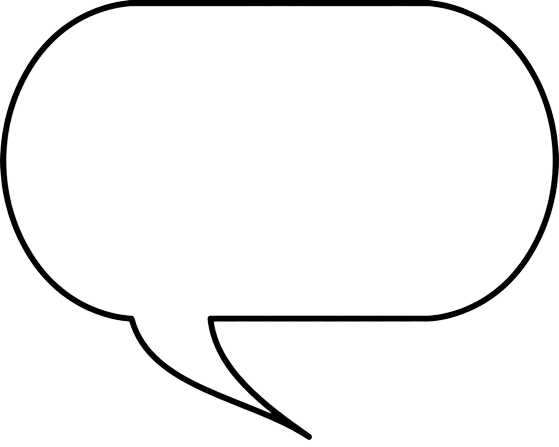
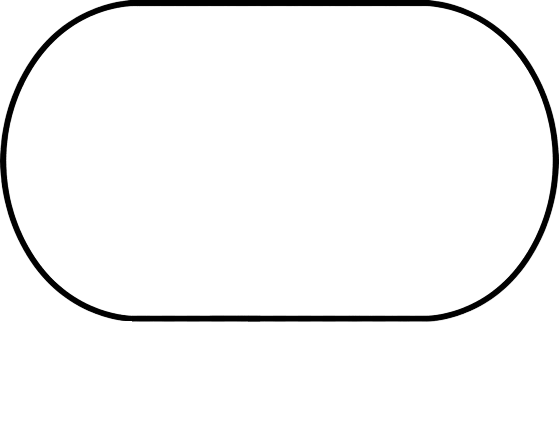
css pimping

Changed region(s): [[0.2129, 0.698, 0.5778, 0.9888], [0.3953, 0.7852, 0.4258, 0.8434]]

diff --git a/fonction.js b/fonction.js
@@ -109,6 +109,9 @@ function submitBulle(nom, dialogue){
             img = document.getElementById('img_couche_3_bulle_gauche');
             newP = document.getElementById("p_couche_3_gauche");
             img.style.backgroundImage = "url('images/bulles/bulleViergeGauche.png')";
+            img.style.backgroundRepeat = "no-repeat";
+            img.style.backgroundPosition = "left top";
+            img.style.height = "20vh";
             newP.innerText = dialogues;
             closeBulle("popup_agresseur");
         break;
@@ -116,6 +119,9 @@ function submitBulle(nom, dialogue){
             img = document.getElementById('img_couche_3_bulle_droite');
             newP = document.getElementById("p_couche_3_droite");
             img.style.backgroundImage = "url('images/bulles/bulleViergeDroite.png')";
+            img.style.backgroundRepeat = "no-repeat";
+            img.style.backgroundPosition = "right top";
+            img.style.height = "20vh";
             newP.innerText = dialogues;
             closeBulle("popup_victime");
         break;
@@ -148,21 +154,57 @@ function selectOutil(nom) {
     let middleTool = document.getElementById("outil_milieu");
     let rightTool = document.getElementById("outil_droit");
 
-    leftTool.style.opacity = ".5";
+    switch (nom) {
+        case "outil_gauche":
+            if (leftTool.style.opacity == "1") {
+                leftTool.style.opacity = ".5";
+                middleTool.style.opacity = ".5";
+                rightTool.style.opacity = ".5";            
+            } else {
+                leftTool.style.opacity = "1";
+                middleTool.style.opacity = ".5";
+                rightTool.style.opacity = ".5";            
+            }
+        break;
+        case "outil_milieu":
+            if (middleTool.style.opacity == "1") {
+                leftTool.style.opacity = ".5";
+                middleTool.style.opacity = ".5";
+                rightTool.style.opacity = ".5";            
+            } else {
+                leftTool.style.opacity = ".5";
+                middleTool.style.opacity = "1";
+                rightTool.style.opacity = ".5";            
+            }
+        break;
+        case "outil_droit":  
+        if (rightTool.style.opacity == "1") {
+            leftTool.style.opacity = ".5";
+            middleTool.style.opacity = "1";
+            rightTool.style.opacity = ".5";            
+        } else {
+            leftTool.style.opacity = ".5";
+            middleTool.style.opacity = ".5";
+            rightTool.style.opacity = "1";            
+        }
+        break;
+    }
+    
+    /*leftTool.style.opacity = ".5";
     middleTool.style.opacity = ".5";
     rightTool.style.opacity = ".5";
 
     switch (nom) {
         case "outil_gauche":
-            outil_gauche.style.opacity = "1";
+            leftTool.style.opacity = "1";
         break;
         case "outil_milieu":
-            outil_milieu.style.opacity = "1"; 
+            middleTool.style.opacity = "1"; 
         break;
         case "outil_droit":  
-            outil_droit.style.opacity = "1"; 
+        rightTool.style.opacity = "1"; 
         break;
-    }
+    }*/
 }
 
 

diff --git a/style.css b/style.css
@@ -3,9 +3,13 @@
     box-sizing: border-box;
 }
 
-body {
-    /*margin: 0 37% !important;*/
-    /*background-color: #e5e5e5 !important;*/
+.bouton {
+    color: #fff;
+    background: #202945;
+    border-radius: 12px;
+    height: 4vh;
+    padding: 0 20px;
+    font-size: 4rem;
 }
 
 .post_principal, .post_menu, .post_img, .post_outils {
@@ -26,12 +30,6 @@ body {
 
 #publierPost {
     margin-right: 2%;
-    color: #fff;
-    background: #202945;
-    border-radius: 12px;
-    height: 4vh;
-    padding: 0 20px;
-    font-size: 4rem;
 }
 
 #creerPost {
@@ -91,7 +89,7 @@ body {
 }
 
 .tools {
-    background-color: #747474;
+    background-color: #fff;
     height: 16vh;
     display: flex;
     justify-content: left;
@@ -196,13 +194,64 @@ body {
 
 .popup_bulle {
     position: absolute;
-    background: #fff;
+    background: #ffe8b4;
     top: 50%;
     left: 50%;
     transform: translate(-50%, calc(-50% - 8vh));
-    height: 50vh;
-    width: 50vw;
-    /*display: none;*/
+    height: 25.5vh;
+    width: 80vw;
+    border-radius: 20px;
     z-index: -1;
     opacity: 0;
+    display: flex;
+    flex-direction: column;
+}
+
+.popup_img {
+    display: flex;
+    justify-content: right;
+}
+
+.popup_bulle img {
+    text-align: right;
+    height: 2.5vh;
+    width: 2.5vh;
+    margin: 1vh 1vh 0 0;
+}
+
+.popup_texte {
+    display: flex;
+    justify-content: center;
+}
+
+.popup_bulle textarea  {
+    width: 100%;
+    height: 8vh;
+    margin: 4vh 1vh;
+    font-size: 4rem;
+    background: #ffe8b4;
+    border: none;
+}
+
+.popup_bouton {
+    display: flex;
+    justify-content: right;
+}
+
+.popup_bulle button  {
+    margin: 1vh 1vh 0 0;
+}
+
+.tools img {
+    height: 8vh;
+}
+
+.tools figcaption {
+    font-size: 4rem;
+    padding-top: 2rem;
+    text-align: center;
+}
+
+#outil_gauche, #outil_milieu, #outil_droit {
+    opacity: .5;
 }

diff --git a/body.php b/body.php
@@ -1,9 +1,11 @@
 <body>
     <div class="post_principal">
+
+    <!-- Header. -->
         <div class="post_menu">
             <img id="fermerPost" src="images/icones/croix.png" />
             <p id="creerPost">Créer un poste</p>
-            <button id="publierPost">Publier</button>
+            <button id="publierPost" class="bouton">Publier</button>
         </div>
         <div id="post_img" class="post_img">
             <div id="img_couche_1" class="post_img_couche_1">
@@ -23,6 +25,9 @@
             </div>
         </div>
 
+
+
+        <!-- Sous-outils bloc 1. -->
         <div class="tools" id="post_sous_outils_scenario">
             <div onclick="scenario('soiree')">
                 <figure>
@@ -62,96 +67,126 @@
             </div>
         </div>
 
+
+
+        <!-- Sous-outils bloc 2. -->
         <div class="tools" id="post_sous_outils_personnages">
             <div onclick="personnages('1')">
                 <figure>
                     <img src="images/personnages/sifflement.png" alt="">
-                    <figcaption>Scenario</figcaption>
+                    <figcaption>Sifflement</figcaption>
                 </figure>
             </div>
             <div onclick="personnages('2')">
                 <figure>
                     <img src="images/personnages/regard.png" alt="">
-                    <figcaption>Scenario</figcaption>
+                    <figcaption>Regard</figcaption>
                 </figure>
             </div>
             <div onclick="personnages('3')">
                 <figure>
                     <img src="images/personnages/menace.png" alt="">
-                    <figcaption>Scenario</figcaption>
+                    <figcaption>Menace</figcaption>
                 </figure>
             </div>
             <div onclick="personnages('4')">
                 <figure>
                     <img src="images/personnages/agression.png" alt="">
-                    <figcaption>Scenario</figcaption>
+                    <figcaption>Agression</figcaption>
                 </figure>
             </div>
             <div onclick="personnages('5')">
                 <figure>
                     <img src="images/personnages/exhibition.png" alt="">
-                    <figcaption>Scenario</figcaption>
+                    <figcaption>Exhibition</figcaption>
                 </figure>
             </div>
             <div onclick="personnages('6')">
                 <figure>
                     <img src="images/personnages/viol.png" alt="">
-                    <figcaption>Scenario</figcaption>
+                    <figcaption>Viol</figcaption>
                 </figure>
             </div>
             <div onclick="personnages('7')">
                 <figure>
                     <img src="images/personnages/pornographie.png" alt="">
-                    <figcaption>Scenario</figcaption>
+                    <figcaption>Pornographie</figcaption>
                 </figure>
             </div>
             <div onclick="personnages('8')">
                 <figure>
                     <img src="images/personnages/remarque.png" alt="">
-                    <figcaption>Scenario</figcaption>
+                    <figcaption>Remarque</figcaption>
                 </figure>
             </div>
         </div>
 
+
+
+        <!-- Sous-outils bloc 3. -->
         <div class="tools" id="post_sous_outils_bulles">
             <div onclick="bulles('popup_titre')">
                 <figure>
-                    <img src="images/icones/icone-test.png" alt="">
-                    <figcaption>Scenario</figcaption>
+                    <img src="images/icones/titre-popup.png" alt="">
+                    <figcaption>Titre</figcaption>
                 </figure>
             </div>
             <div onclick="bulles('popup_agresseur')">
                 <figure>
-                    <img src="images/icones/icone-test.png" alt="">
-                    <figcaption>Scenario</figcaption>
+                    <img src="images/icones/victime.png" alt="">
+                    <figcaption>Victime</figcaption>
                 </figure>
             </div>
             <div onclick="bulles('popup_victime')">
                 <figure>
-                    <img src="images/icones/icone-test.png" alt="">
-                    <figcaption>Scenario</figcaption>
+                    <img src="images/icones/agresseur.png" alt="">
+                    <figcaption>Agresseur</figcaption>
                 </figure>
             </div>
         </div>
 
+
+
+        <!-- Popups de dialogues. -->
         <div class="fond_gris"></div>
 
         <div class="popup_bulle" id="popup_titre">
-            <button onclick="closeBulle('popup_titre')">Fermer</button>
-            <textarea maxlength="50" minlength="5" id="popup_titre_dialogue">Zone de texte</textarea>
-            <button  onclick="submitBulle('img_couche_3_titre','popup_titre_dialogue')">Valider</button>
+            <div class="popup_img">
+                <img src="images/icones/croix.png" onclick="closeBulle('popup_titre')" />
+            </div>
+            <div class="popup_texte">
+                <textarea maxlength="50" minlength="5" placeholder="Donnez un titre à votre image" id="popup_titre_dialogue"></textarea>
+            </div>
+            <div class="popup_bouton">
+                <button  onclick="submitBulle('img_couche_3_titre','popup_titre_dialogue')" class="bouton">Valider</button>
+            </div>
         </div>
         <div class="popup_bulle" id="popup_agresseur">
-            <button onclick="closeBulle('popup_agresseur')">Fermer</button>
-            <textarea maxlength="50" minlength="5" id="popup_agresseur_dialogue">Zone de texte</textarea>
-            <button  onclick="submitBulle('img_couche_3_agresseur','popup_agresseur_dialogue')">Valider</button>
+            <div class="popup_img">
+                <img src="images/icones/croix.png" onclick="closeBulle('popup_agresseur')" />
+            </div>
+            <div class="popup_texte">
+                <textarea maxlength="50" minlength="5" placeholder="Donnez un titre à votre image" id="popup_agresseur_dialogue"></textarea>
+            </div>
+            <div class="popup_bouton">
+                <button  onclick="submitBulle('img_couche_3_agresseur','popup_agresseur_dialogue')" class="bouton">Valider</button>
+            </div>
         </div>
         <div class="popup_bulle" id="popup_victime">
-            <button onclick="closeBulle('popup_victime')">Fermer</button>
-            <textarea maxlength="50" minlength="5" id="popup_victime_dialogue">Zone de texte</textarea>
-            <button onclick="submitBulle('img_couche_3_victime','popup_victime_dialogue')">Valider</button>
+            <div class="popup_img">
+                <img src="images/icones/croix.png" onclick="closeBulle('popup_victime')" />
+            </div>
+            <div class="popup_texte">
+                <textarea maxlength="50" minlength="5" placeholder="Donnez un titre à votre image" id="popup_victime_dialogue"></textarea>
+            </div>
+            <div class="popup_bouton">
+                <button  onclick="submitBulle('img_couche_3_victime','popup_victime_dialogue')" class="bouton">Valider</button>
+            </div>
         </div>
 
+
+
+        <!-- Barre d'outils statique. -->
         <div class="post_outils">
             <div id="outil_gauche" onclick="reveal('Scenario'), selectOutil('outil_gauche')">
                 <figure>
@@ -172,8 +207,6 @@
                 </figure>
             </div>
         </div>
+
     </div>
 </body>
-
-<script>
-</script>
